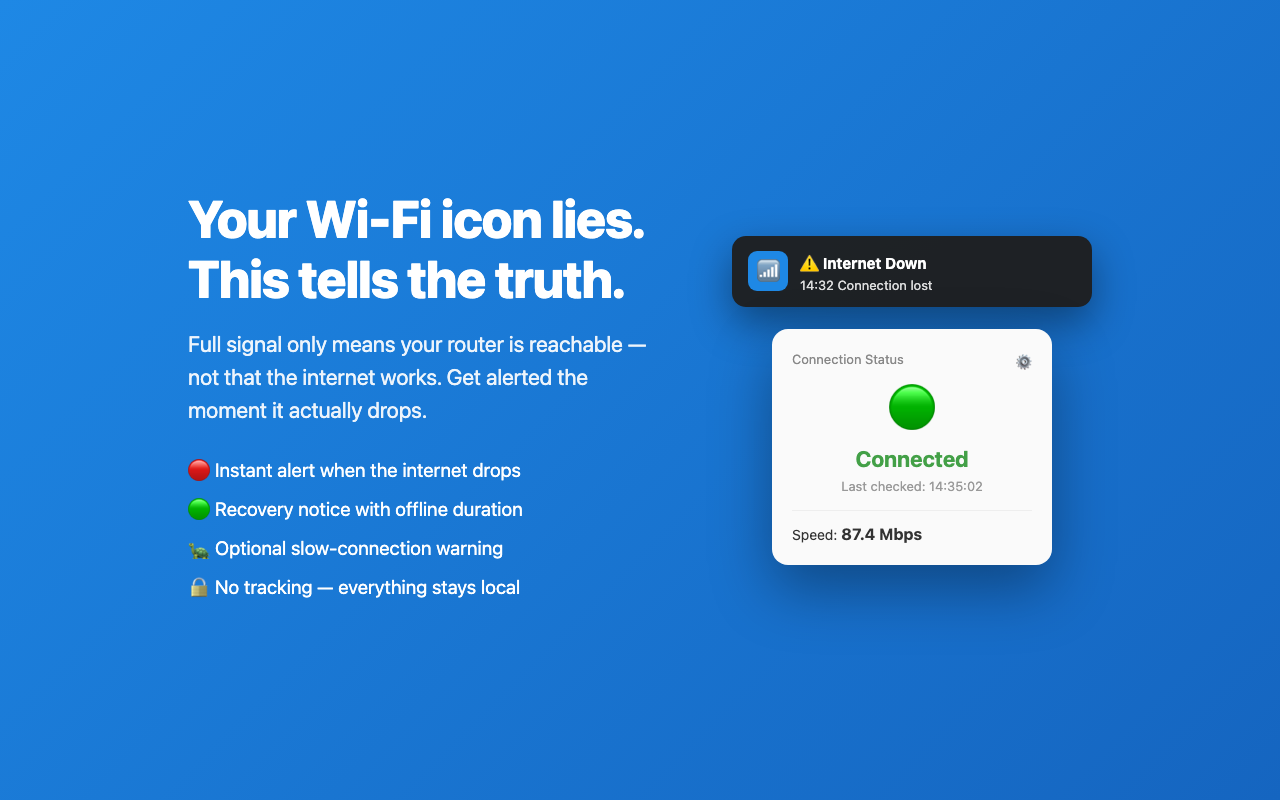
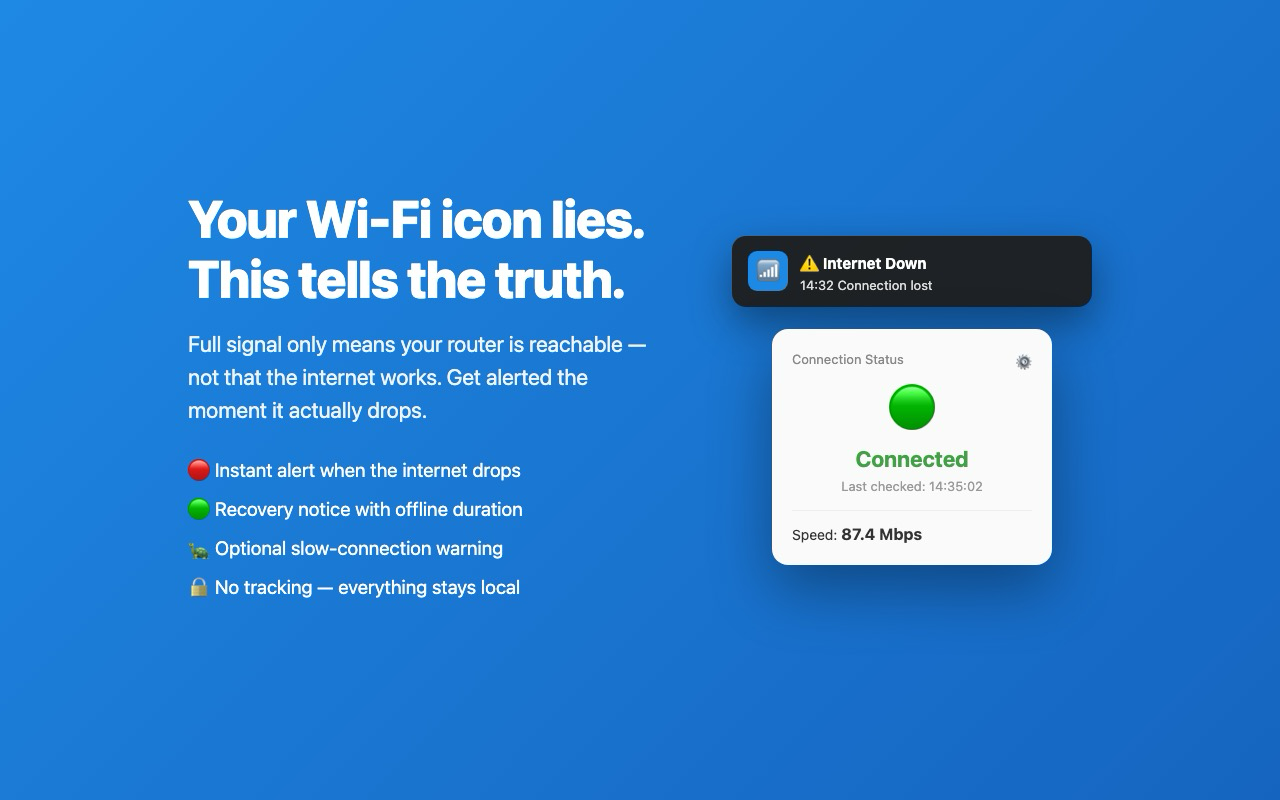
Add Korean screenshot + promo tiles (small/marquee)

diff --git a/promo/screenshot-ko.html b/promo/screenshot-ko.html
@@ -1,0 +1,61 @@
+<!DOCTYPE html>
+<html lang="ko">
+  <head>
+    <meta charset="UTF-8" />
+    <style>
+      * { margin: 0; padding: 0; box-sizing: border-box; }
+      body {
+        width: 1280px; height: 800px;
+        font-family: -apple-system, "Apple SD Gothic Neo", "Malgun Gothic", system-ui, sans-serif;
+        background: linear-gradient(135deg, #1e88e5 0%, #1565c0 100%);
+        display: flex; align-items: center; justify-content: center; gap: 64px; overflow: hidden;
+      }
+      .copy { color: #fff; max-width: 500px; }
+      .copy h1 { font-size: 50px; line-height: 1.2; font-weight: 800; letter-spacing: -1px; }
+      .copy p { margin-top: 20px; font-size: 21px; line-height: 1.6; opacity: 0.92; }
+      .feat { margin-top: 28px; list-style: none; }
+      .feat li { font-size: 18px; margin: 11px 0; display: flex; align-items: center; gap: 10px; }
+      .stage { display: flex; flex-direction: column; gap: 22px; align-items: center; }
+      .popup { width: 280px; background: #fafafa; border-radius: 16px; box-shadow: 0 24px 60px rgba(0,0,0,0.35); padding: 22px 20px; text-align: center; }
+      .popup .hdr { font-size: 13px; color: #888; text-align: left; margin-bottom: 6px; display: flex; justify-content: space-between; }
+      .dot { font-size: 46px; }
+      .label { font-size: 22px; font-weight: 700; color: #43a047; margin-top: 8px; }
+      .sub { font-size: 13px; color: #999; margin-top: 6px; }
+      .speed { margin-top: 16px; padding-top: 14px; border-top: 1px solid #eee; text-align: left; font-size: 14px; color: #333; }
+      .speed b { font-size: 16px; }
+      .notif { width: 360px; background: rgba(30,30,30,0.96); border-radius: 14px; padding: 14px 16px; display: flex; align-items: center; gap: 12px; box-shadow: 0 16px 40px rgba(0,0,0,0.4); }
+      .notif .ic { width: 40px; height: 40px; border-radius: 9px; background: #1e88e5; display: flex; align-items: center; justify-content: center; font-size: 22px; flex-shrink: 0; }
+      .notif .txt { color: #fff; text-align: left; }
+      .notif .t1 { font-size: 15px; font-weight: 700; }
+      .notif .t2 { font-size: 13px; opacity: 0.85; margin-top: 2px; }
+    </style>
+  </head>
+  <body>
+    <div class="copy">
+      <h1>와이파이 아이콘은<br />거짓말을 합니다.</h1>
+      <p>신호가 가득 차 있어도 그건 공유기까지만 연결됐다는 뜻 — 실제 인터넷이 끊긴 순간을 즉시 알려드립니다.</p>
+      <ul class="feat">
+        <li>🔴 인터넷이 끊기면 즉시 알림</li>
+        <li>🟢 복구 시 끊겨 있던 시간 표시</li>
+        <li>🐢 속도 저하 경고 (선택)</li>
+        <li>🔒 추적 없음 — 모든 데이터는 기기 안에</li>
+      </ul>
+    </div>
+    <div class="stage">
+      <div class="notif">
+        <div class="ic">📶</div>
+        <div class="txt">
+          <div class="t1">⚠ 인터넷 끊김</div>
+          <div class="t2">14:32 연결이 끊겼습니다</div>
+        </div>
+      </div>
+      <div class="popup">
+        <div class="hdr"><span>인터넷 연결 상태</span><span>⚙</span></div>
+        <div class="dot">🟢</div>
+        <div class="label">연결됨</div>
+        <div class="sub">마지막 확인: 14:35:02</div>
+        <div class="speed">속도: <b>87.4 Mbps</b></div>
+      </div>
+    </div>
+  </body>
+</html>

diff --git a/promo/tile-marquee.html b/promo/tile-marquee.html
@@ -1,0 +1,44 @@
+<!DOCTYPE html>
+<html lang="ko">
+  <head>
+    <meta charset="UTF-8" />
+    <style>
+      * { margin: 0; padding: 0; box-sizing: border-box; }
+      body {
+        width: 1400px; height: 560px;
+        font-family: -apple-system, "Apple SD Gothic Neo", "Malgun Gothic", system-ui, sans-serif;
+        background: linear-gradient(135deg, #1e88e5 0%, #1565c0 100%);
+        display: flex; align-items: center; justify-content: center; gap: 80px; overflow: hidden; padding: 0 80px;
+      }
+      .left { color: #fff; max-width: 640px; }
+      .left .ic { width: 64px; height: 64px; border-radius: 15px; background: rgba(255,255,255,0.16); display: flex; align-items: center; justify-content: center; font-size: 36px; margin-bottom: 22px; }
+      .left h1 { font-size: 56px; font-weight: 800; line-height: 1.15; letter-spacing: -1.5px; }
+      .left p { margin-top: 18px; font-size: 23px; opacity: 0.92; line-height: 1.5; }
+      .right { display: flex; flex-direction: column; gap: 18px; }
+      .notif { width: 380px; background: rgba(20,20,20,0.95); border-radius: 14px; padding: 16px 18px; display: flex; align-items: center; gap: 13px; box-shadow: 0 18px 44px rgba(0,0,0,0.4); }
+      .notif .nic { width: 42px; height: 42px; border-radius: 9px; display: flex; align-items: center; justify-content: center; font-size: 22px; flex-shrink: 0; }
+      .down .nic { background: #e53935; }
+      .up .nic { background: #43a047; }
+      .notif .txt { color: #fff; }
+      .notif .t1 { font-size: 16px; font-weight: 700; }
+      .notif .t2 { font-size: 13px; opacity: 0.85; margin-top: 2px; }
+    </style>
+  </head>
+  <body>
+    <div class="left">
+      <div class="ic">📶</div>
+      <h1>와이파이는 멀쩡한데<br />인터넷이 안 될 때</h1>
+      <p>실제 연결을 확인해 끊긴 순간과 복구된 순간을 즉시 알려드립니다.</p>
+    </div>
+    <div class="right">
+      <div class="notif down">
+        <div class="nic">⚠</div>
+        <div class="txt"><div class="t1">인터넷 끊김</div><div class="t2">14:32 연결이 끊겼습니다</div></div>
+      </div>
+      <div class="notif up">
+        <div class="nic">✅</div>
+        <div class="txt"><div class="t1">인터넷 복구됨</div><div class="t2">3분 12초 만에 복구</div></div>
+      </div>
+    </div>
+  </body>
+</html>

diff --git a/promo/tile-small.html b/promo/tile-small.html
@@ -1,0 +1,24 @@
+<!DOCTYPE html>
+<html lang="ko">
+  <head>
+    <meta charset="UTF-8" />
+    <style>
+      * { margin: 0; padding: 0; box-sizing: border-box; }
+      body {
+        width: 440px; height: 280px;
+        font-family: -apple-system, "Apple SD Gothic Neo", "Malgun Gothic", system-ui, sans-serif;
+        background: linear-gradient(135deg, #1e88e5 0%, #1565c0 100%);
+        display: flex; flex-direction: column; align-items: center; justify-content: center;
+        color: #fff; text-align: center; overflow: hidden; padding: 24px;
+      }
+      .ic { width: 76px; height: 76px; border-radius: 18px; background: rgba(255,255,255,0.16); display: flex; align-items: center; justify-content: center; font-size: 42px; margin-bottom: 16px; }
+      h1 { font-size: 26px; font-weight: 800; letter-spacing: -0.5px; }
+      p { margin-top: 10px; font-size: 15px; opacity: 0.9; line-height: 1.4; }
+    </style>
+  </head>
+  <body>
+    <div class="ic">📶</div>
+    <h1>인터넷 끊김 알림</h1>
+    <p>끊긴 순간, 복구된 순간<br />즉시 알려드립니다</p>
+  </body>
+</html>
